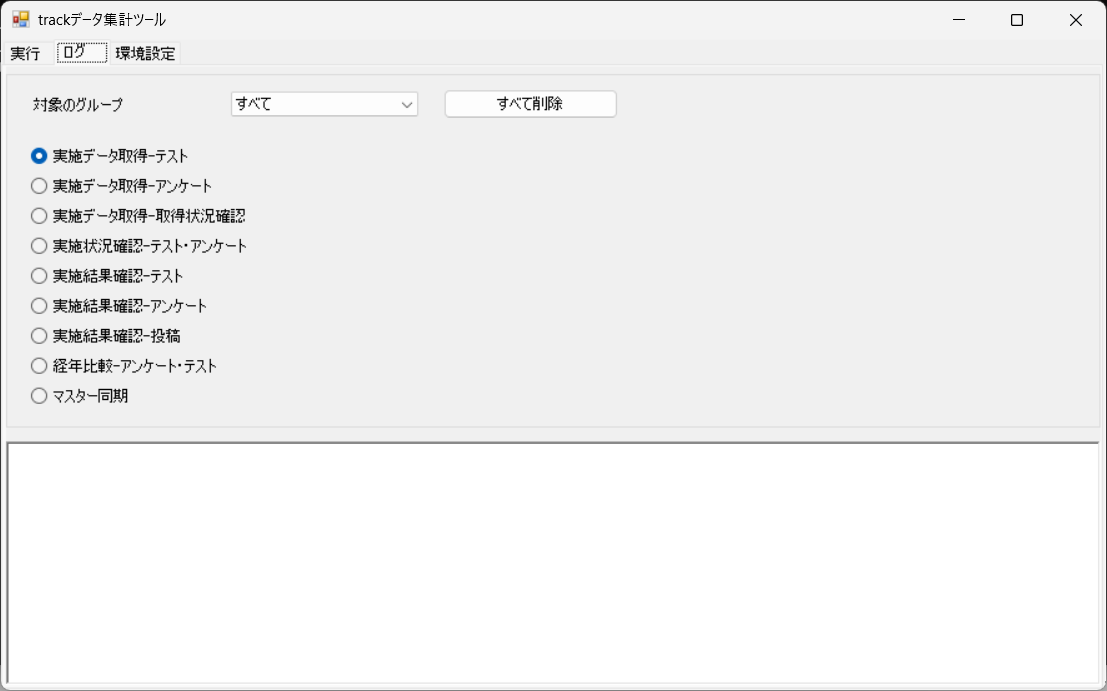
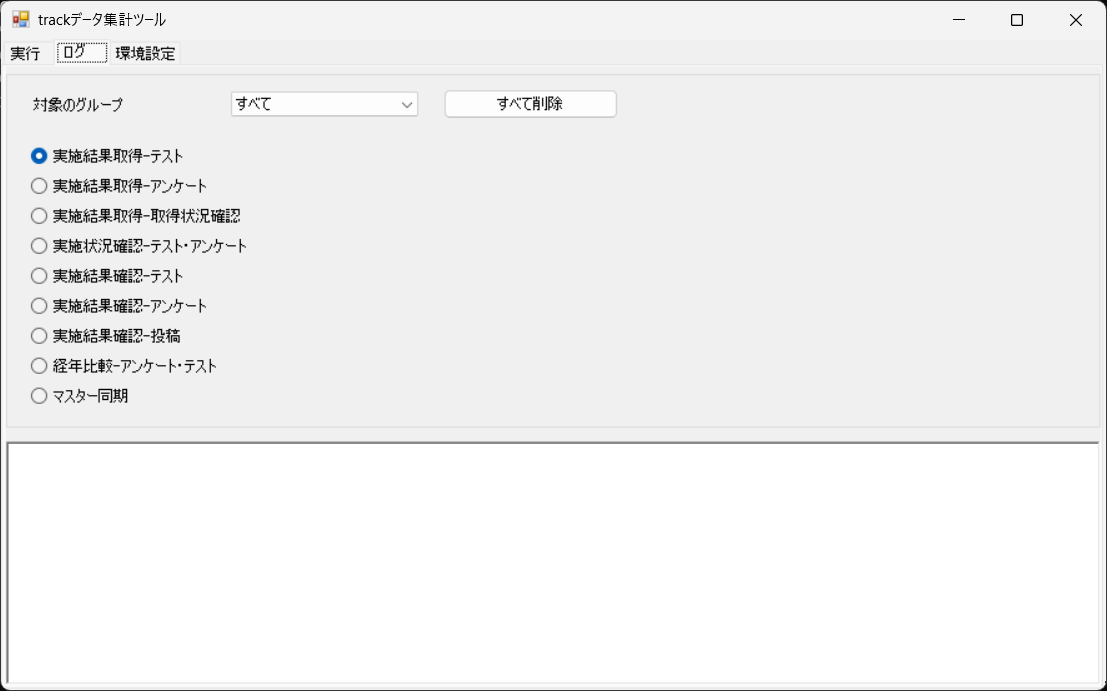
MD

Changed region(s): [[0.0614, 0.2127, 0.215, 0.3343], [0.9828, 0.9725, 1.0, 1.0], [0.0, 0.9725, 0.0307, 1.0]]

diff --git a/tool/track-aggregator/doc/02_設計/画面設計.md b/tool/track-aggregator/doc/02_設計/画面設計.md
@@ -9,7 +9,7 @@
 | 通番 | 画面 | 内容 |
 |---|---|---|
 | 1 | 実行（一括実行） | 対象のグループを指定し、選んだ処理をまとめて実行します。 |
-| 2 | 実行（実施データ取得） | 対象のグループを指定して、track から実施結果を取得します。 |
+| 2 | 実行（実施結果取得） | 対象のグループを指定して、track から実施結果を取得します。 |
 | 3 | 実行（実施状況確認） | 対象のグループを指定して、取得した結果を統合します。 |
 | 4 | 実行（実施結果確認） | 対象のグループを指定して、テストとアンケートの集計結果を作成し、投稿します。 |
 | 5 | 実行（経年比較） | 対象の会社名と比較年を指定して、経年比較の結果を作成します。 |
@@ -27,7 +27,7 @@ flowchart TD
     A --> C["ログ"]
     A --> D["環境設定"]
     B --> B1["一括実行"]
-    B --> B2["実施データ取得"]
+    B --> B2["実施結果取得"]
     B --> B3["実施状況確認"]
     B --> B4["実施結果確認"]
     B --> B5["経年比較"]
@@ -47,8 +47,8 @@ flowchart TD
 | 通番 | 項目 | 種類 | 内容 |
 |---|---|---|---|
 | 1 | 対象のグループ | コンボボックス | 対象のグループを選びます。 |
-| 2 | 実施データ取得-テスト | チェックボックス | 実行する処理を選びます。 |
-| 3 | 実施データ取得-アンケート | チェックボックス | 実行する処理を選びます。 |
+| 2 | 実施結果取得-テスト | チェックボックス | 実行する処理を選びます。 |
+| 3 | 実施結果取得-アンケート | チェックボックス | 実行する処理を選びます。 |
 | 4 | 実施状況確認-テスト・アンケート | チェックボックス | 実行する処理を選びます。 |
 | 5 | 実施結果確認-テスト | チェックボックス | 実行する処理を選びます。 |
 | 6 | 実施結果確認-アンケート | チェックボックス | 実行する処理を選びます。 |
@@ -63,12 +63,12 @@ flowchart TD
 
 <div class="pagebreak"></div>
 
-### 3.2 実行（実施データ取得）
+### 3.2 実行（実施結果取得）
 
 #### テスト
 
 <p float="left">
-  <img src="screenshots/fetch-02.png" alt="実行（実施データ取得）" width="600">
+  <img src="screenshots/fetch-02.png" alt="実行（実施結果取得）" width="600">
 </p>
 
 | 通番 | 項目 | 種類 | 内容 |
@@ -82,7 +82,7 @@ flowchart TD
 #### アンケート
 
 <p float="left">
-  <img src="screenshots/fetch-02.png" alt="実行（実施データ取得）" width="600">
+  <img src="screenshots/fetch-02.png" alt="実行（実施結果取得）" width="600">
 </p>
 
 | 通番 | 項目 | 種類 | 内容 |
@@ -96,7 +96,7 @@ flowchart TD
 #### 取得状況確認
 
 <p float="left">
-  <img src="screenshots/fetch-02.png" alt="実行（実施データ取得）" width="600">
+  <img src="screenshots/fetch-02.png" alt="実行（実施結果取得）" width="600">
 </p>
 
 | 通番 | 項目 | 種類 | 内容 |
@@ -204,9 +204,9 @@ flowchart TD
 |---|---|---|---|
 | 1 | 対象のグループ | コンボボックス | 表示するログのグループを選びます。 |
 | 2 | すべて削除 | ボタン | 実行ログのファイルをすべて削除します。削除の前に確認を求めます。 |
-| 3 | 実施データ取得-テスト | ラジオボタン | 表示するログの処理を選びます。 |
-| 4 | 実施データ取得-アンケート | ラジオボタン | 表示するログの処理を選びます。 |
-| 5 | 実施データ取得-取得状況確認 | ラジオボタン | 表示するログの処理を選びます。 |
+| 3 | 実施結果取得-テスト | ラジオボタン | 表示するログの処理を選びます。 |
+| 4 | 実施結果取得-アンケート | ラジオボタン | 表示するログの処理を選びます。 |
+| 5 | 実施結果取得-取得状況確認 | ラジオボタン | 表示するログの処理を選びます。 |
 | 6 | 実施状況確認-テスト・アンケート | ラジオボタン | 表示するログの処理を選びます。 |
 | 7 | 実施結果確認-テスト | ラジオボタン | 表示するログの処理を選びます。 |
 | 8 | 実施結果確認-アンケート | ラジオボタン | 表示するログの処理を選びます。 |
@@ -247,7 +247,7 @@ flowchart TD
 | 1 | 受講生データのフォルダ | テキスト |
 | 2 | テンプレートのフォルダ | テキスト |
 | 3 | ログの出力先 | テキスト |
-| 4 | 実施結果の取得先（共通） | テキスト |
+| 4 | 実施結果取得先（共通） | テキスト |
 | 5 | テスト結果の取得先 | テキスト |
 | 6 | アンケート結果の取得先 | テキスト |
 | 7 | 集計結果の出力先（共通） | テキスト |

diff --git a/tool/track-aggregator/doc/02_設計/処理フロー.md b/tool/track-aggregator/doc/02_設計/処理フロー.md
@@ -9,9 +9,9 @@
 | 通番 | 画面名 | ボタン名 | 内容 |
 |---|---|---|---|
 | 1 | 実行（一括実行） | 実行 | 選んだ処理を順に実行します。 |
-| 2 | 実行（実施データ取得） | 実行（テスト） | テストの実施結果を取得します。 |
-| 3 | 実行（実施データ取得） | 実行（アンケート） | アンケートの実施結果を取得します。 |
-| 4 | 実行（実施データ取得） | 実行（取得状況確認） | 取得の状況を確認します。 |
+| 2 | 実行（実施結果取得） | 実行（テスト） | テストの実施結果を取得します。 |
+| 3 | 実行（実施結果取得） | 実行（アンケート） | アンケートの実施結果を取得します。 |
+| 4 | 実行（実施結果取得） | 実行（取得状況確認） | 取得の状況を確認します。 |
 | 5 | 実行（実施状況確認） | 実行（テスト・アンケート） | 取得した結果を統合します。 |
 | 6 | 実行（実施結果確認） | 実行（テスト） | テストの集計結果を作成します。 |
 | 7 | 実行（実施結果確認） | 実行（アンケート） | アンケートの集計結果を作成します。 |
@@ -39,7 +39,7 @@
 ### 2.1 実行（一括実行）[実行]
 
 1. 対象のグループを確認します。
-2. 選んだ処理を、実施データ取得、実施状況確認、実施結果確認、経年比較の順に実行します。
+2. 選んだ処理を、実施結果取得、実施状況確認、実施結果確認、経年比較の順に実行します。
 3. 処理ごとに、状態を表示します。
 4. 状態を表示し、実行ログを画面下部に出力します。
 
@@ -49,7 +49,7 @@ flowchart TD
     E(["終了"])
     N1["対象のグループを確認します"]
     S --> N1
-    N2["選んだ処理を、実施データ取得、実施状況確認、実施結果確認、経年比較の順に実行します"]
+    N2["選んだ処理を、実施結果取得、実施状況確認、実施結果確認、経年比較の順に実行します"]
     N1 --> N2
     N3["処理ごとに、状態を表示します"]
     N2 --> N3
@@ -60,7 +60,7 @@ flowchart TD
 
 <div class="pagebreak"></div>
 
-### 2.2 実行（実施データ取得）[実行（テスト）]
+### 2.2 実行（実施結果取得）[実行（テスト）]
 
 1. 対象のグループを確認します。
 2. track からテストの実施結果のファイルを取得します。
@@ -81,7 +81,7 @@ flowchart TD
 
 <div class="pagebreak"></div>
 
-### 2.3 実行（実施データ取得）[実行（アンケート）]
+### 2.3 実行（実施結果取得）[実行（アンケート）]
 
 1. 対象のグループを確認します。
 2. track からアンケートの実施結果のファイルを取得します。
@@ -102,7 +102,7 @@ flowchart TD
 
 <div class="pagebreak"></div>
 
-### 2.4 実行（実施データ取得）[実行（取得状況確認）]
+### 2.4 実行（実施結果取得）[実行（取得状況確認）]
 
 1. 対象のグループを確認します。
 2. 取得の状況を確認します。

diff --git a/tool/track-aggregator/doc/02_設計/アーキテクチャ設計.md b/tool/track-aggregator/doc/02_設計/アーキテクチャ設計.md
@@ -34,14 +34,14 @@
 
 | 通番 | 処理 | 入力 | 出力 |
 |---|---|---|---|
-| 1 | 実施データ取得 | 共通設定、グループ別の設定、テスト、アンケート | 実施結果 |
+| 1 | 実施結果取得 | 共通設定、グループ別の設定、テスト、アンケート | 実施結果 |
 | 2 | 実施状況確認 | 実施結果 | 統合結果 |
 | 3 | 実施結果確認（テスト） | 実施結果 | テスト集計結果 |
 | 4 | 実施結果確認（アンケート） | 実施結果 | アンケート集計結果 |
 | 5 | 投稿 | テスト集計結果、アンケート集計結果 | kintone のスレッドへのコメント |
 | 6 | 経年比較 | 共通設定、グループ別の設定、過去年度のグループデータ、実施結果 | 経年比較結果 |
 
-- 実施データ取得は、テストとアンケートを別々に実行できます。`batsdownload-test-results.bat` と `batsdownload-survey-results.bat` が、それぞれ `batsdownload-results.bat` に対象（`-DownloadTarget:test` または `-DownloadTarget:survey`）を渡して呼び出します。ログのファイル名の接頭辞は、呼び出し元のファイル名になります。
+- 実施結果取得は、テストとアンケートを別々に実行できます。`bats\download-test-results.bat` と `bats\download-survey-results.bat` が、それぞれ `bats\download-results.bat` に対象（`-DownloadTarget:test` または `-DownloadTarget:survey`）を渡して呼び出します。ログのファイル名の接頭辞は、呼び出し元のファイル名になります。
 
 ## 4. 入力データ
 
@@ -88,7 +88,7 @@
 ## 8. GUI の構成
 
 - タブは「実行」「ログ」「環境設定」の 3 つです。
-- 「実行」は、一括実行と、処理ごとのタブ（実施データ取得、実施状況確認、実施結果確認、経年比較）に分かれます。
+- 「実行」は、一括実行と、処理ごとのタブ（実施結果取得、実施状況確認、実施結果確認、経年比較）に分かれます。
 - 「環境設定」は、「共通」「グループ別」「マスター」のサブタブで、設定値と `.xlsx` のデータを編集します。
 
 ## 9. エラー処理と運用上の注意

diff --git a/tool/kintone-aggregator/doc/02_設計/機能一覧.md b/tool/kintone-aggregator/doc/02_設計/機能一覧.md
@@ -47,6 +47,8 @@ kintone のデータの取得から集計、アラート検知、投稿までを
 
 - ログの確認
   - 実行ログを表示する
+  - ログの削除
+    - 実行ログのファイルを、すべて削除します。
 
 ### 2.3 環境設定
 
